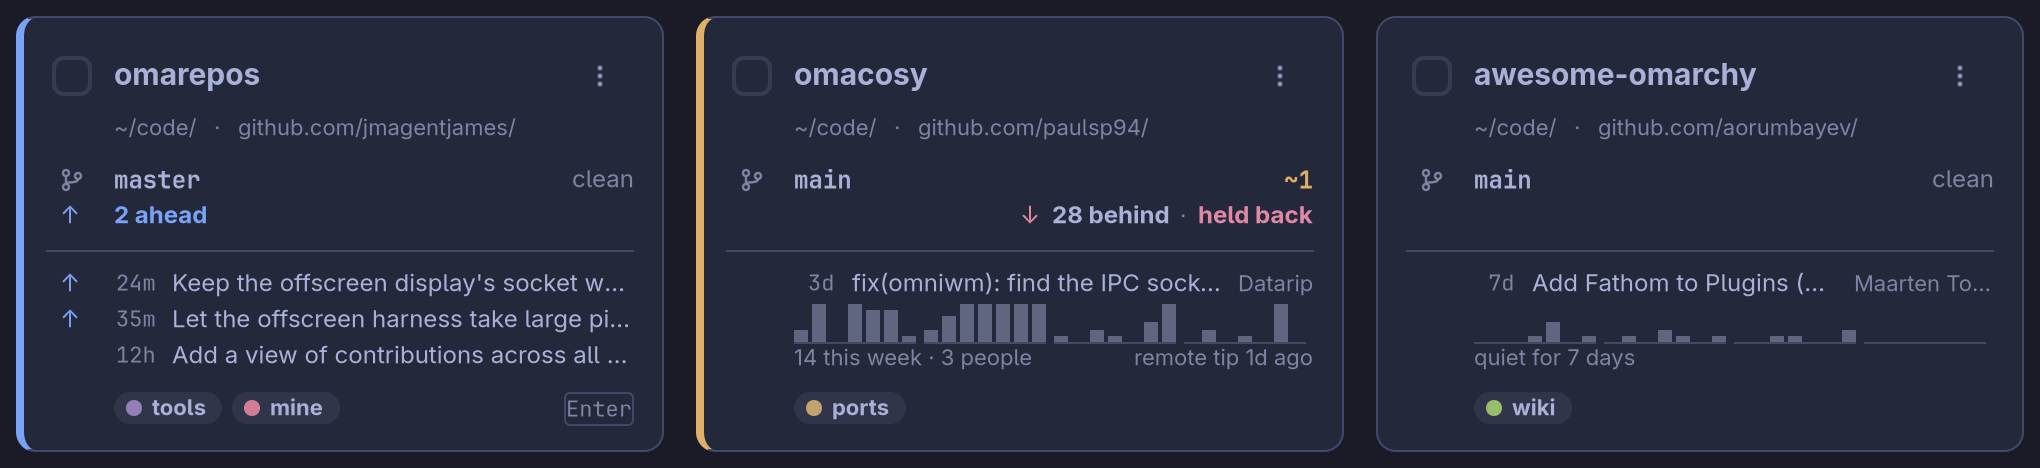
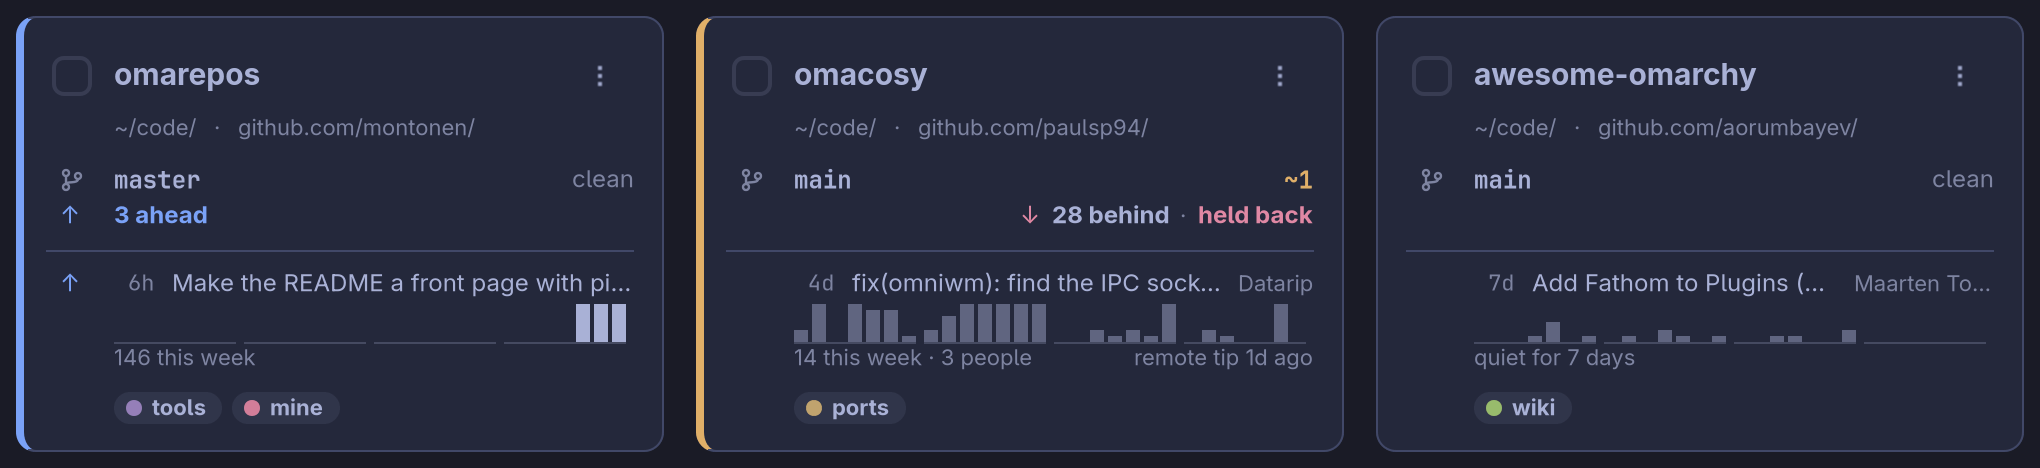
Point the README at the personal account, and add the licence
The repository is moving from the account it was first put under to
github.com/montonen/omarepos, a new private repository there. The README
told a reader to clone from the old address, and three of its pictures
showed that address on this repository's own card. It also said MIT, and
there was no licence text to point at.

The clone address is the new one. The fleet, the three cards and the four
themes are retaken with it: taken after origin was pointed at the new
place and before the first push there, so the card shows three commits
that are only here, which is what it is in the pictures to show. The card
Enter would open is another repository this time, so the sentence about
it points at the first picture. The other five pictures do not show the
address and are the ones already committed. LICENSE is the MIT licence
in Jonas Montonen's name, as he decided, and the README links to it.

The old address stays in the one earlier commit that introduced it, by
decision: it had not been pushed anywhere when it was written.

Checked: the three pictures were looked at and show github.com/montonen;
no other file names the old account; the README's links resolve. Not
checked: how GitHub renders the README, which is the same open point as
before.

diff --git a/README.md b/README.md
@@ -47,16 +47,17 @@ says what it is.
 | Name | The repository |
 | Where | The folder it lies in, and the remote it belongs to |
 | Branch | The branch, and on the right what is uncommitted: `+1 ~3 ?4` is one staged, three modified, four untracked |
-| Sync | `↑ 2 ahead` is what exists only here. `↓ 28 behind` is what is waiting, and **held back** is added when the refresh would have brought it in and something is in the way |
+| Sync | `↑ 3 ahead` is what exists only here. `↓ 28 behind` is what is waiting, and **held back** is added when the refresh would have brought it in and something is in the way |
 | Commit | The last commit: how old, what it says, and who wrote it when that was not you |
 | Lately | Commits a day over the last four weeks, yours solid and other people's fainter |
 | Tags | Your own labels, each with a dot in the tag's colour: one of eight, chosen by its name |
 
 Apart from the dot on a tag, colour is kept for what needs you. The left edge
 is yellow for uncommitted work, the accent colour for commits that exist
-nowhere else, and red for trouble. The card `Enter` would open, the first one
-here, shows the two commits before the last in place of the four weeks.
-[Reading a card](docs/cards.md) has the rest.
+nowhere else, and red for trouble. The card `Enter` would open from the
+filter, the first one in the picture at the top, shows the two commits before
+the last in place of the four weeks. [Reading a card](docs/cards.md) has the
+rest.
 
 ### Type, then Enter
 
@@ -173,7 +174,7 @@ sudo pacman -S --needed gtk4 libadwaita libgit2 git rust base-devel
 ```
 
 ```bash
-git clone https://github.com/jmagentjames/omarepos.git
+git clone https://github.com/montonen/omarepos.git
 cd omarepos
 cargo install --path .
 mkdir -p ~/.local/bin
@@ -284,4 +285,4 @@ fetch: with the refresh off, that is the last time you pressed `f`, `p` or
 
 ## License
 
-MIT, as `Cargo.toml` declares.
+MIT. See [LICENSE](LICENSE).
